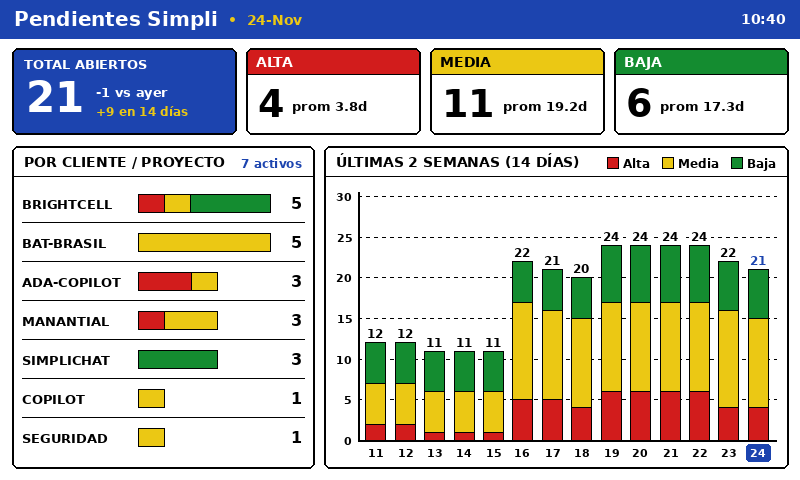
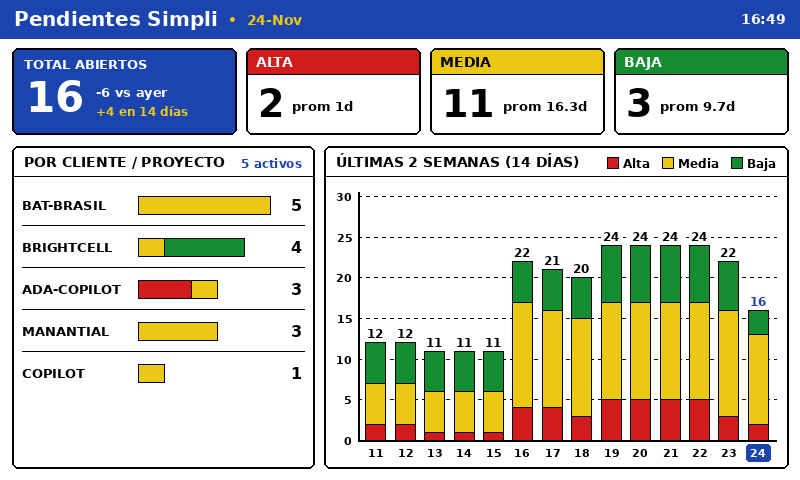
fix(display): exclude hibernado items and auto-reload second-brain tools
- data_provider: filter out hibernado items in per-client/project breakdown so counts match estadistica.py (active open items only).
- data_provider: reload sb.py and estadistica.py automatically when their mtime changes on disk, avoiding stale in-memory rules in the long-running service.
- tests & preview: add regression check for hibernado exclusion and refresh 00_estadistica.png.

diff --git a/projects/second_brain_display/backend/data_provider.py b/projects/second_brain_display/backend/data_provider.py
@@ -6,8 +6,10 @@ tools/herdr-pendientes/estadistica.py y sb.py para el dashboard único del reTer
 from __future__ import annotations
 
 import datetime as dt
+import importlib
 import os
 import sys
+import threading
 from collections import defaultdict
 from pathlib import Path
 from typing import Any
@@ -23,11 +25,56 @@ except ImportError:
     estadistica = None
     sb = None
 
+_RELOAD_LOCK = threading.Lock()
+_LOADED_MTIMES: dict[str, int] = {}
+
 MESES_ES = ("", "Ene", "Feb", "Mar", "Abr", "May", "Jun", "Jul", "Ago", "Sep", "Oct", "Nov", "Dic")
+
+
+def _module_mtime_ns(mod: Any) -> int | None:
+    path = getattr(mod, "__file__", None)
+    if not path:
+        return None
+    try:
+        return Path(path).stat().st_mtime_ns
+    except OSError:
+        return None
+
+
+def _reload_sb_tools_if_changed() -> None:
+    """Recarga sb y estadistica si cambiaron en disco, para no quedar con lógica vieja en memoria."""
+    global sb, estadistica
+    if sb is None or estadistica is None:
+        return
+    with _RELOAD_LOCK:
+        sb_mtime = _module_mtime_ns(sb)
+        est_mtime = _module_mtime_ns(estadistica)
+        if not _LOADED_MTIMES:
+            if sb_mtime is not None:
+                _LOADED_MTIMES["sb"] = sb_mtime
+            if est_mtime is not None:
+                _LOADED_MTIMES["estadistica"] = est_mtime
+            return
+        sb_changed = sb_mtime is not None and sb_mtime != _LOADED_MTIMES.get("sb")
+        est_changed = est_mtime is not None and est_mtime != _LOADED_MTIMES.get("estadistica")
+        if sb_changed:
+            sb = importlib.reload(sb)
+            _LOADED_MTIMES["sb"] = sb_mtime
+        if sb_changed or est_changed:
+            estadistica = importlib.reload(estadistica)
+            if est_mtime is not None:
+                _LOADED_MTIMES["estadistica"] = est_mtime
 
 
 def _empty_prio() -> dict[str, Any]:
     return {"n": 0, "prom": 0, "mediana": 0, "max": 0}
+
+
+def _es_abierto_activo(p: Any) -> bool:
+    """Mismo criterio de abierto activo que estadistica.py (excluye cerrados e hibernados)."""
+    if p.cerrado or getattr(p, "hibernando", False) or getattr(p, "estado", None) == "hibernado":
+        return False
+    return bool(p.abierto) and p.prioridad in estadistica.GRUPO
 
 
 def build_stats_payload(
@@ -48,10 +95,10 @@ def build_stats_payload(
     }
     total_abiertos = sum(kpis[g]["n"] for g in estadistica.GRUPOS)
 
-    # Desglose por cliente o proyecto (tag resuelto por sb._cliente), usando el mismo filtro que estadistica.py
+    # Desglose por cliente o proyecto (tag resuelto por sb._cliente), excluyendo cerrados e hibernados
     por_tag: dict[str, dict[str, int]] = defaultdict(lambda: {"alta": 0, "media": 0, "baja": 0})
     for p in vivos:
-        if p.cerrado or not p.abierto or p.prioridad not in estadistica.GRUPO:
+        if not _es_abierto_activo(p):
             continue
         key = p.cliente or "sin-tag"
         por_tag[key][estadistica.GRUPO[p.prioridad]] += 1
@@ -103,6 +150,7 @@ def get_pendientes_data() -> dict[str, Any]:
     if sb is None or estadistica is None:
         return {"error": "Módulos sb.py / estadistica.py no encontrados en " + str(SB_TOOLS)}
 
+    _reload_sb_tools_if_changed()
     today = dt.date.today()
     vivos, _ = sb.cargar()
     return build_stats_payload(vivos, sb.archivados(), sb.clientes(), today)

diff --git a/projects/second_brain_display/backend/test_server_if_changed.py b/projects/second_brain_display/backend/test_server_if_changed.py
@@ -71,13 +71,34 @@ _check_render(_sample_tab(total=0, scale=0) | {"por_cliente": [], "delta_ayer": 
 _check_render(_sample_tab(total=30, extra_clients=8))  # activa colapso en OTROS (+K)
 _check_render(_sample_tab(total=126, scale=6))         # valores > 100 y eje Y > 60
 
-# 2. Validar consistencia real con el Second Brain (si está disponible en disco)
+# 2. Validar exclusión de hibernados y consistencia real con el Second Brain
 if data_provider.sb is not None and data_provider.estadistica is not None:
+    hoy_test = dt.date(2026, 11, 24)
+    synth = [
+        data_provider.sb.Pendiente(
+            slug="a1", titulo="Activo", descripcion="", prioridad="alta", estado="abierto",
+            clase="", abierto=dt.date(2026, 11, 20), vence=None, resuelto=None,
+            tags=["acme"], cliente="acme", secciones={},
+        ),
+        data_provider.sb.Pendiente(
+            slug="h1", titulo="Hibernado", descripcion="", prioridad="baja", estado="hibernado",
+            clase="", abierto=dt.date(2026, 11, 10), vence=None, resuelto=None,
+            tags=["simplichat"], cliente="simplichat", secciones={}, hibernado=hoy_test,
+        ),
+    ]
+    res_synth = data_provider.build_stats_payload(synth, [], {"acme"}, hoy_test)
+    tab_synth = res_synth["tabs"][0]
+    assert tab_synth["total"] == 1, "hibernado no debe sumar al total"
+    assert tab_synth["kpis"]["baja"]["n"] == 0, "hibernado no debe sumar a su prioridad"
+    assert [c["nombre"] for c in tab_synth["por_cliente"]] == ["acme"], "hibernado no debe aparecer en por_cliente"
+    assert tab_synth["serie"][-1]["total"] == 1, "hibernado hoy no debe sumar en el día actual de la serie"
+
     live = data_provider.get_pendientes_data()
     assert live["total_vistas"] == 1
     t0 = live["tabs"][0]
     assert t0["tipo"] == "estadistica"
     assert sum(c["total"] for c in t0["por_cliente"]) == t0["total"], "suma por cliente == total"
+    assert t0["serie"][-1]["total"] == t0["total"], "último día de la serie == total abiertos"
     assert len(t0["serie"]) == 14
     _check_render(t0, telemetry={"vbat": 4.0, "temp": 24.0, "hum": 50.0})
 
